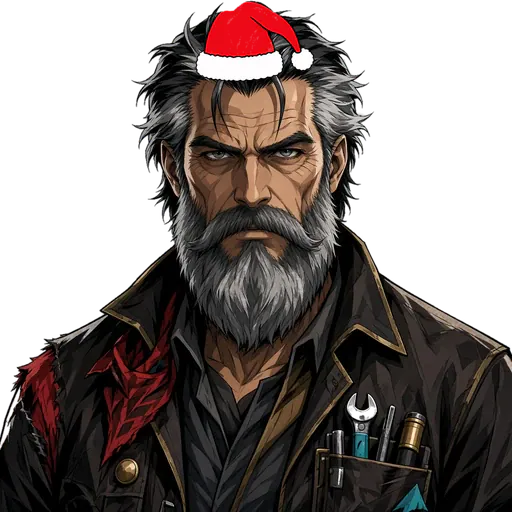
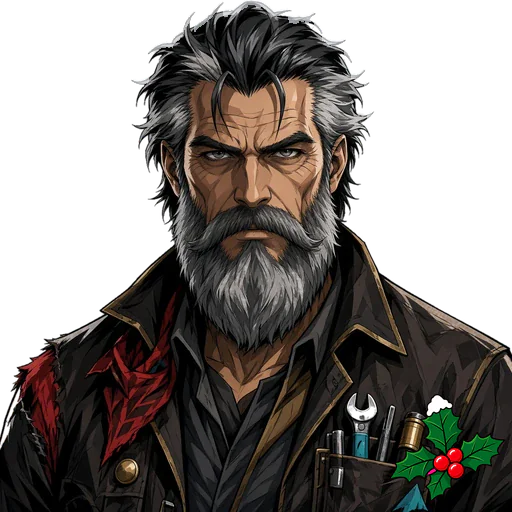
New Christmas deck (25 cards); app refreshes its saved art
Claude-Session: https://claude.ai/code/session_01FRLtxfJkzgmHNiVDfJC7kh

diff --git a/sw.js b/sw.js
@@ -1,5 +1,5 @@
 /* Saddle Up Arcade: offline support. The page is network-first (fresh updates), art is cache-first. */
-var V='arcade-d650e7ceff',ART='arcade-art-v1';
+var V='arcade-d650e7ceff',ART='arcade-art-v2';
 self.addEventListener('install',function(e){self.skipWaiting();e.waitUntil(caches.open(V).then(function(c){return c.addAll(['./','index.html','manifest.webmanifest','icons/icon-192.png','icons/icon-512.png']);}));});
 self.addEventListener('activate',function(e){e.waitUntil(caches.keys().then(function(ks){return Promise.all(ks.filter(function(k){return k!==V&&k!==ART;}).map(function(k){return caches.delete(k);}));}).then(function(){return self.clients.claim();}));});
 self.addEventListener('fetch',function(e){
